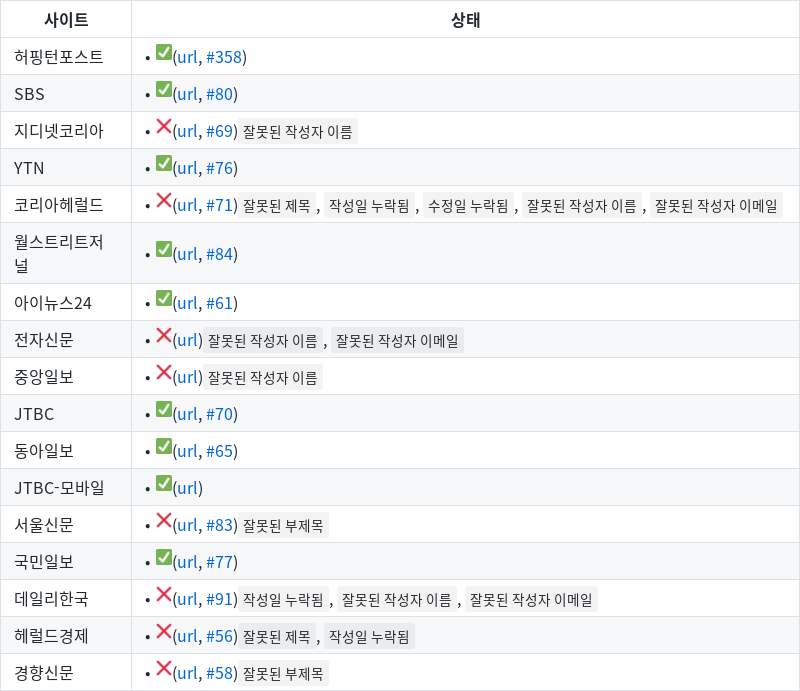
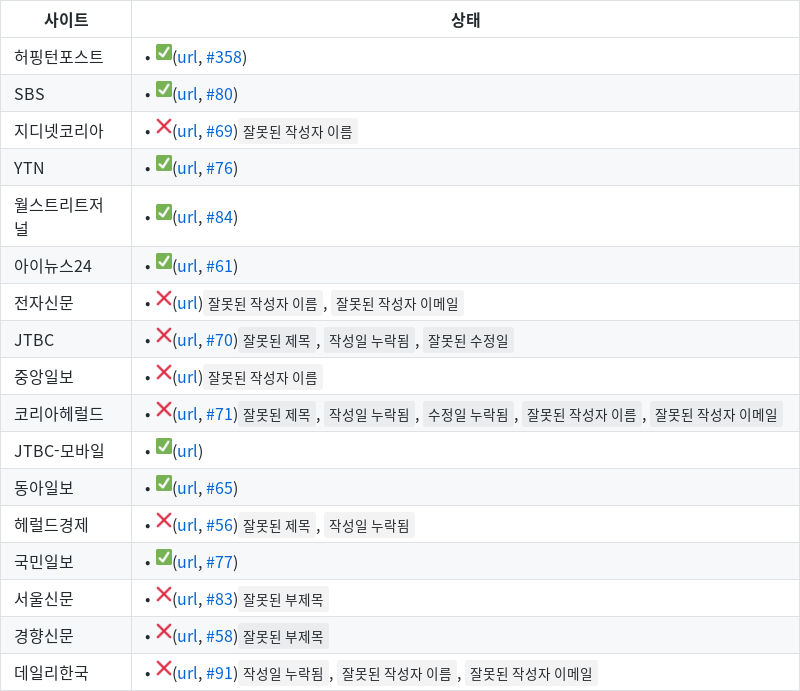
Tue May 26 00:27:46 UTC 2020

diff --git a/health-check.md b/health-check.md
@@ -4,16 +4,16 @@
 | SBS | • ✅([url](https://news.sbs.co.kr/news/endPage.do?news_id=N1002697236), [#80](https://github.com/disjukr/just-news/issues/#80)) |
 | 지디넷코리아 | • ❌([url](http://www.zdnet.co.kr/view/?no=20141104074223), [#69](https://github.com/disjukr/just-news/issues/#69))`잘못된 작성자 이름` |
 | YTN | • ✅([url](https://www.ytn.co.kr/_ln/0103_201411190800481989), [#76](https://github.com/disjukr/just-news/issues/#76)) |
-| 코리아헤럴드 | • ❌([url](http://khnews.kheraldm.com/view.php?ud=20141111001137&md=20141111180830_BK&kr=1), [#71](https://github.com/disjukr/just-news/issues/#71))`잘못된 제목`, `작성일 누락됨`, `수정일 누락됨`, `잘못된 작성자 이름`, `잘못된 작성자 이메일` |
 | 월스트리트저널 | • ✅([url](https://realtime.wsj.com/korea/2014/10/13/%EB%B0%95%EC%9B%90%EC%88%9C-%EC%84%9C%EC%9A%B8%EC%8B%9C%EC%9E%A5-%EB%AF%B8%EA%B5%AD-%EC%96%B8%EB%A1%A0%EC%97%90-%EB%8F%99%EC%84%B1%EA%B2%B0%ED%98%BC-%EC%A7%80%EC%A7%80-%EB%B0%9C%EC%96%B8/), [#84](https://github.com/disjukr/just-news/issues/#84)) |
 | 아이뉴스24 | • ✅([url](http://www.inews24.com/view/860573), [#61](https://github.com/disjukr/just-news/issues/#61)) |
 | 전자신문 | • ❌([url](http://www.etnews.com/20191031000370?mc=ns_003_00006))`잘못된 작성자 이름`, `잘못된 작성자 이메일` |
+| JTBC | • ❌([url](http://news.jtbc.joins.com/article/article.aspx?news_id=NB10639468), [#70](https://github.com/disjukr/just-news/issues/#70))`잘못된 제목`, `작성일 누락됨`, `잘못된 수정일` |
 | 중앙일보 | • ❌([url](https://news.joins.com/article/23621286))`잘못된 작성자 이름` |
-| JTBC | • ✅([url](http://news.jtbc.joins.com/article/article.aspx?news_id=NB10639468), [#70](https://github.com/disjukr/just-news/issues/#70)) |
-| 동아일보 | • ✅([url](http://news.donga.com/3/03/20141107/67723014/1), [#65](https://github.com/disjukr/just-news/issues/#65)) |
+| 코리아헤럴드 | • ❌([url](http://khnews.kheraldm.com/view.php?ud=20141111001137&md=20141111180830_BK&kr=1), [#71](https://github.com/disjukr/just-news/issues/#71))`잘못된 제목`, `작성일 누락됨`, `수정일 누락됨`, `잘못된 작성자 이름`, `잘못된 작성자 이메일` |
 | JTBC-모바일 | • ✅([url](http://mnews.jtbc.joins.com/News/Article.aspx?news_id=NB11866214)) |
-| 서울신문 | • ❌([url](http://seoul.co.kr/news/newsView.php?id=20141204500025), [#83](https://github.com/disjukr/just-news/issues/#83))`잘못된 부제목` |
-| 국민일보 | • ✅([url](http://news.kmib.co.kr/article/view.asp?arcid=0008864720&code=61121111), [#77](https://github.com/disjukr/just-news/issues/#77)) |
-| 데일리한국 | • ❌([url](http://daily.hankooki.com/lpage/politics/201412/dh20141219103740137430.htm), [#91](https://github.com/disjukr/just-news/issues/#91))`작성일 누락됨`, `잘못된 작성자 이름`, `잘못된 작성자 이메일` |
+| 동아일보 | • ✅([url](http://news.donga.com/3/03/20141107/67723014/1), [#65](https://github.com/disjukr/just-news/issues/#65)) |
 | 헤럴드경제 | • ❌([url](http://news.heraldcorp.com/view.php?ud=20141023000202&md=20141023091209_BK), [#56](https://github.com/disjukr/just-news/issues/#56))`잘못된 제목`, `작성일 누락됨` |
+| 국민일보 | • ✅([url](http://news.kmib.co.kr/article/view.asp?arcid=0008864720&code=61121111), [#77](https://github.com/disjukr/just-news/issues/#77)) |
+| 서울신문 | • ❌([url](http://seoul.co.kr/news/newsView.php?id=20141204500025), [#83](https://github.com/disjukr/just-news/issues/#83))`잘못된 부제목` |
 | 경향신문 | • ❌([url](http://biz.khan.co.kr/khan_art_view.html?artid=201410311921301&code=920100&med=khan), [#58](https://github.com/disjukr/just-news/issues/#58))`잘못된 부제목` |
+| 데일리한국 | • ❌([url](http://daily.hankooki.com/lpage/politics/201412/dh20141219103740137430.htm), [#91](https://github.com/disjukr/just-news/issues/#91))`작성일 누락됨`, `잘못된 작성자 이름`, `잘못된 작성자 이메일` |
